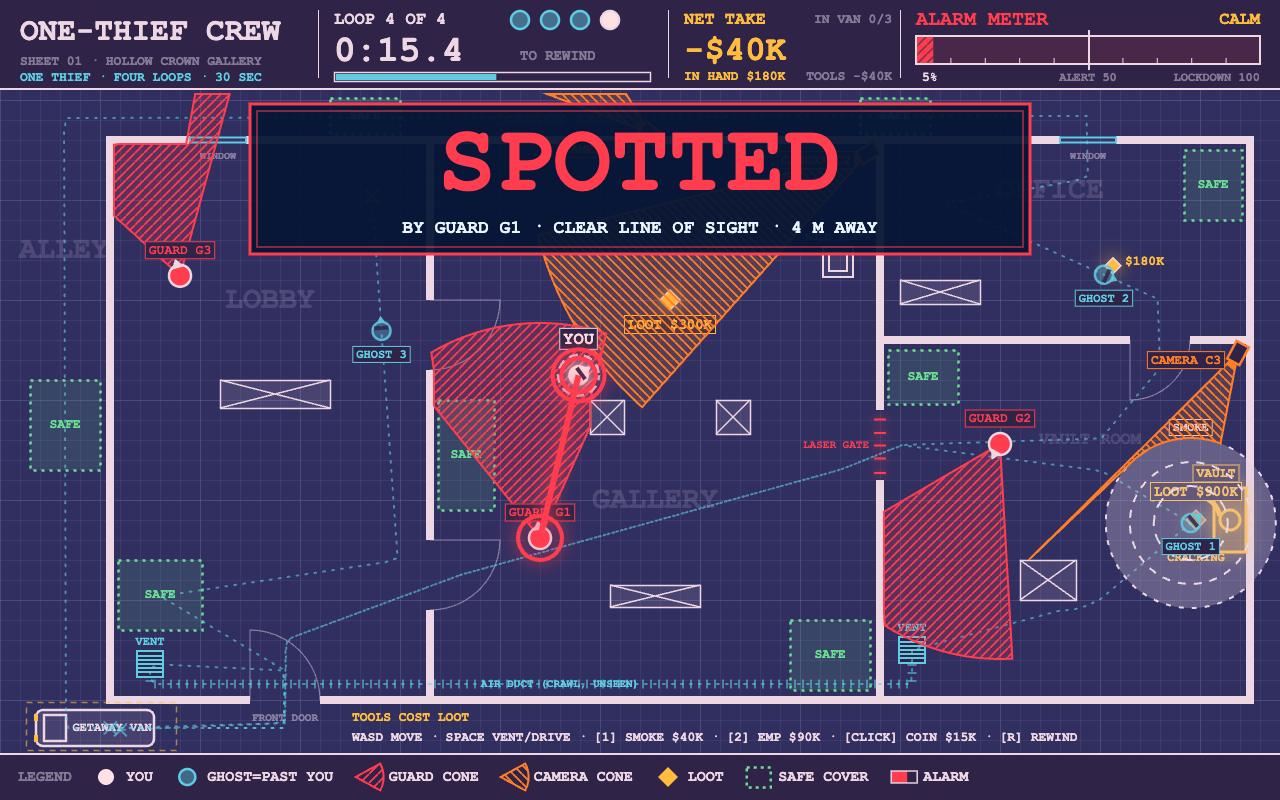
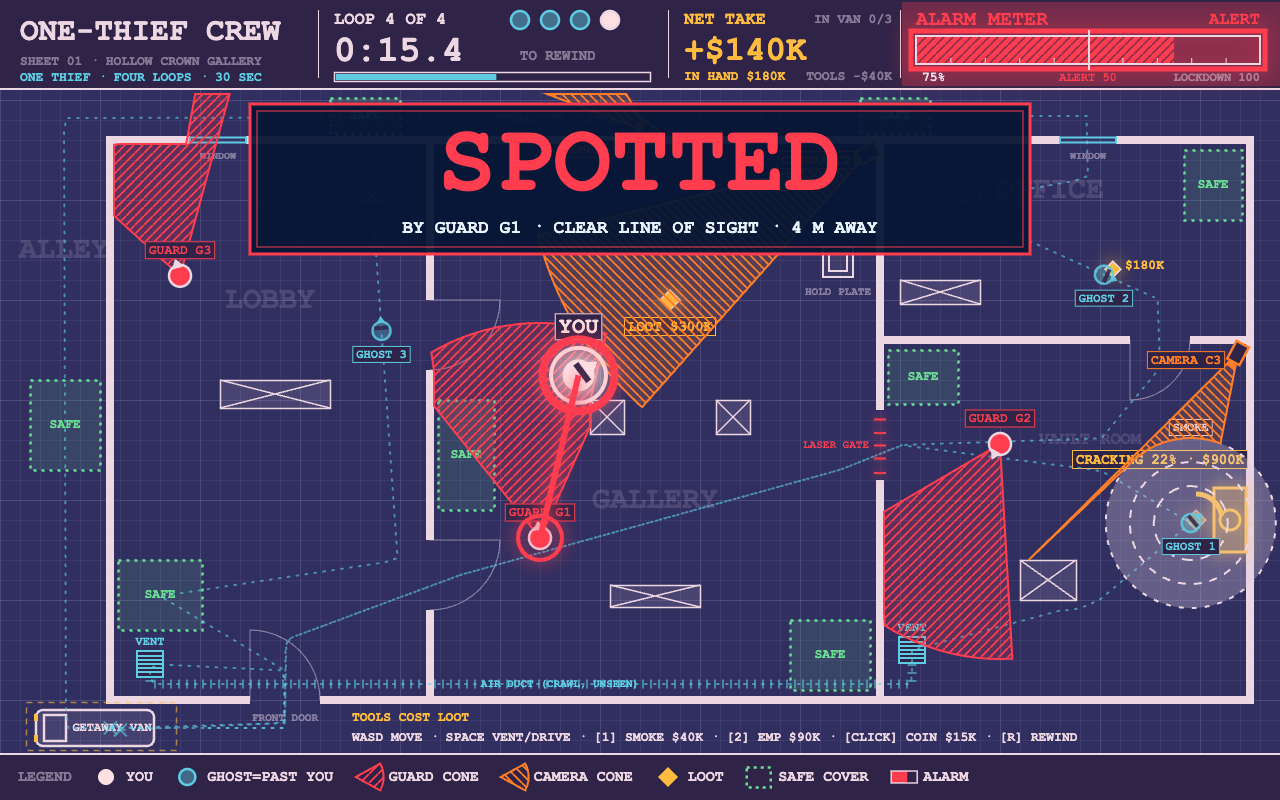
Spotted makes the alarm leap; clearer cover
The alarm meter jumps 70% and flashes red when the live thief is
spotted. The take shown in the margin counts loot in hand, with its
sign. The live thief is drawn larger inside a glowing white ring, the
vault carries one tag instead of four, and the plate label sits below
the plate. All four screenshots retaken.

diff --git a/game/src/render/drawCrew.js b/game/src/render/drawCrew.js
@@ -34,10 +34,14 @@ export function drawGhostTrails(ctx, world, emphasis) {
   ctx.restore();
 }
 
-function drawThiefBody(ctx, thief, color, fill) {
+/** How much larger than a ghost the live thief is drawn: the hero must read at thumbnail size. */
+const LIVE_SCALE = 1.55;
+
+function drawThiefBody(ctx, thief, color, fill, scale = 1) {
   ctx.save();
   ctx.translate(thief.x, thief.y);
   ctx.rotate(thief.facing);
+  ctx.scale(scale, scale);
   ctx.fillStyle = fill;
   ctx.strokeStyle = color;
   ctx.lineWidth = 2.5;
@@ -63,7 +67,7 @@ function drawNoticeMark(ctx, thief) {
   ctx.strokeStyle = INK.danger;
   ctx.lineWidth = 4;
   ctx.beginPath();
-  ctx.arc(thief.x, thief.y, 17, -Math.PI / 2, -Math.PI / 2 + Math.PI * 2 * thief.noticed);
+  ctx.arc(thief.x, thief.y, thief.live ? 34 : 17, -Math.PI / 2, -Math.PI / 2 + Math.PI * 2 * thief.noticed);
   ctx.stroke();
 }
 
@@ -79,21 +83,24 @@ export function drawThieves(ctx, world, clock) {
     drawNoticeMark(ctx, thief);
   }
   const live = world.live;
+  // A soft white halo and a solid glowing ring: the one bright white thing on the sheet.
+  const ring = 27 + 2 * Math.sin(clock * 5);
   ctx.save();
-  ctx.strokeStyle = INK.you;
-  ctx.globalAlpha = 0.75 + 0.2 * Math.sin(clock * 5);
-  ctx.lineWidth = 2.5;
-  ctx.setLineDash([9, 6]);
-  ctx.lineDashOffset = -clock * 20;
+  ctx.globalAlpha = live.hidden ? 0.4 : 1;
+  ctx.fillStyle = 'rgba(255, 255, 255, 0.2)';
   ctx.beginPath();
-  ctx.arc(live.x, live.y, 20 + 2 * Math.sin(clock * 5), 0, Math.PI * 2);
-  ctx.stroke();
+  ctx.arc(live.x, live.y, ring, 0, Math.PI * 2);
+  ctx.fill();
+  withGlow(ctx, INK.you, 20, () => {
+    ctx.strokeStyle = INK.you;
+    ctx.lineWidth = 4;
+    ctx.beginPath();
+    ctx.arc(live.x, live.y, ring, 0, Math.PI * 2);
+    ctx.stroke();
+    drawThiefBody(ctx, live, INK.you, INK.you, LIVE_SCALE);
+  });
   ctx.restore();
-  ctx.save();
-  ctx.globalAlpha = live.hidden ? 0.45 : 1;
-  withGlow(ctx, INK.you, 12, () => drawThiefBody(ctx, live, INK.you, INK.you));
-  ctx.restore();
-  drawTag(ctx, live.hidden ? 'YOU (IN DUCT)' : 'YOU', live.x, live.y - 36, 17, INK.you);
+  drawTag(ctx, live.hidden ? 'YOU (IN DUCT)' : 'YOU', live.x, live.y - 48, 22, INK.you);
   drawNoticeMark(ctx, live);
 }
 
@@ -101,8 +108,10 @@ export function drawLoot(ctx, world, clock) {
   for (const item of world.loot) {
     if (item.banked) continue;
     const locked = item.inVault && !world.vault.open;
-    const x = item.carrier ? item.x + 9 : item.x;
-    const y = item.carrier ? item.y - 9 : item.y;
+    // Carried loot rides at the carrier's shoulder, outside the live thief's bright ring.
+    const shoulder = item.carrier ? (item.carrier.live ? 30 : 9) : 0;
+    const x = item.x + shoulder;
+    const y = item.y - shoulder * 0.6;
     const size = item.carrier ? 8 : 11 + Math.sin(clock * 4) * 1.2;
     ctx.save();
     ctx.globalAlpha = locked ? 0.55 : 1;
@@ -120,7 +129,9 @@ export function drawLoot(ctx, world, clock) {
     ctx.lineWidth = 1.5;
     ctx.stroke();
     ctx.restore();
-    if (!item.carrier) drawTag(ctx, `LOOT $${item.value / 1000}K`, item.x, item.y + (item.inVault ? -28 : 25), 14, INK.loot);
+    // A locked vault's own tag already names its loot.
+    if (locked) continue;
+    if (!item.carrier) drawTag(ctx, `LOOT $${item.value / 1000}K`, item.x - (item.inVault ? 40 : 0), item.y + 27, 14, INK.loot);
     else drawLabel(ctx, `$${item.value / 1000}K`, x + 12, y - 4, 13, INK.loot);
   }
 }

diff --git a/game/src/render/drawHud.js b/game/src/render/drawHud.js
@@ -3,7 +3,7 @@
 import { ALARM, LOOP_SECONDS, MAX_SELVES, TOOLS, VIEW } from '../config.js';
 import { currentLoopNumber, secondsLeftInLoop } from '../loop/timeLoop.js';
 import { alarmStage, ALERT, CALM } from '../systems/alarmMeter.js';
-import { formatMoney, netTake, valueInHand } from '../systems/lootLedger.js';
+import { formatMoney, formatSignedMoney, takeSoFar, valueInHand } from '../systems/lootLedger.js';
 import { drawLabel, hatchFill, INK, strokeDashedRect } from './blueprintStyle.js';
 
 const BAR = { x: 0, y: 0, w: VIEW.width, h: 88 };
@@ -46,17 +46,31 @@ function drawLoopClock(ctx, session) {
 function drawTake(ctx, world) {
   const ledger = world.ledger;
   drawLabel(ctx, 'NET TAKE', 684, 20, 17, INK.loot);
-  drawLabel(ctx, formatMoney(netTake(ledger)), 684, 51, 34, INK.loot);
+  // Loot in the van plus loot in hand, less the tool bill: what this plan is worth right now.
+  const take = takeSoFar(world);
+  drawLabel(ctx, formatSignedMoney(take), 684, 51, 34, take < 0 ? INK.danger : INK.loot);
   drawLabel(ctx, `IN HAND ${formatMoney(valueInHand(world.loot))}`, 684, 77, 13, INK.loot);
   drawLabel(ctx, `TOOLS ${formatMoney(-ledger.toolSpend)}`, 892, 77, 13, INK.faint, 'right');
   drawLabel(ctx, `IN VAN ${ledger.banked.length}/3`, 892, 20, 13, INK.faint, 'right');
 }
 
-function drawAlarmMeter(ctx, world) {
+function drawAlarmMeter(ctx, world, clock) {
   const stage = alarmStage(world.alarm);
   const color = stage === CALM ? INK.loot : INK.danger;
   const x = 916;
   const width = 344;
+  // Past ALERT the whole meter flashes red.
+  if (stage !== CALM && Math.sin(clock * 10) > -0.2) {
+    ctx.fillStyle = 'rgba(255, 61, 79, 0.3)';
+    ctx.fillRect(902, 2, VIEW.width - 902, 84);
+    ctx.save();
+    ctx.shadowColor = INK.danger;
+    ctx.shadowBlur = 24;
+    ctx.strokeStyle = INK.danger;
+    ctx.lineWidth = 5;
+    ctx.strokeRect(x - 5, 31, width + 10, 38);
+    ctx.restore();
+  }
   drawLabel(ctx, 'ALARM METER', x, 20, 20, INK.danger);
   drawLabel(ctx, stage, x + width, 20, 17, color, 'right');
   ctx.fillStyle = 'rgba(255, 61, 79, 0.12)';
@@ -147,11 +161,11 @@ function drawLegend(ctx) {
   });
 }
 
-export function drawHud(ctx, session) {
+export function drawHud(ctx, session, clock) {
   drawTitleBlock(ctx);
   drawLoopClock(ctx, session);
   drawTake(ctx, session.world);
-  drawAlarmMeter(ctx, session.world);
+  drawAlarmMeter(ctx, session.world, clock);
   drawToolPrices(ctx);
   drawLegend(ctx);
 }

diff --git a/game/src/render/drawFloorPlan.js b/game/src/render/drawFloorPlan.js
@@ -123,7 +123,8 @@ function drawLaserGateAndPlate(ctx, world, clock) {
   ctx.fillRect(HOLD_PLATE.x - 15, HOLD_PLATE.y - 15, 30, 30);
   ctx.strokeRect(HOLD_PLATE.x - 15, HOLD_PLATE.y - 15, 30, 30);
   ctx.strokeRect(HOLD_PLATE.x - 9, HOLD_PLATE.y - 9, 18, 18);
-  drawLabel(ctx, 'HOLD PLATE', HOLD_PLATE.x, HOLD_PLATE.y - 25, 11, held ? INK.safe : INK.faint, 'center');
+  // Below the plate, so it never sits under the tag of whoever stands on it.
+  drawLabel(ctx, held ? 'PLATE HELD' : 'HOLD PLATE', HOLD_PLATE.x, HOLD_PLATE.y + 30, 11, held ? INK.safe : INK.faint, 'center');
 }
 
 function drawVault(ctx, world) {
@@ -139,14 +140,18 @@ function drawVault(ctx, world) {
     ctx.arc(box.x + box.w / 2, box.y + box.h / 2, 10, 0, Math.PI * 2);
     ctx.stroke();
   });
-  drawTag(ctx, vault.open ? 'VAULT OPEN' : 'VAULT', box.x + 2, box.y - 14, 13, INK.loot);
-  if (!vault.open && vault.progress > 0) {
+  // One tag says everything about the vault, so nothing piles up around its door.
+  const cracking = !vault.open && vault.progress > 0;
+  let tag = 'VAULT · LOOT $900K';
+  if (vault.open) tag = 'VAULT OPEN';
+  else if (cracking) tag = `CRACKING ${Math.round((100 * vault.progress) / VAULT.crackSeconds)}% · $900K`;
+  drawTag(ctx, tag, 1160, box.y - 28, 14, INK.loot);
+  if (cracking) {
     ctx.strokeStyle = INK.loot;
     ctx.lineWidth = 5;
     ctx.beginPath();
-    ctx.arc(VAULT_DOOR.x, VAULT_DOOR.y, 24, -Math.PI / 2, -Math.PI / 2 + (Math.PI * 2 * vault.progress) / VAULT.crackSeconds);
+    ctx.arc(VAULT_DOOR.x, VAULT_DOOR.y, 26, -Math.PI / 2, -Math.PI / 2 + (Math.PI * 2 * vault.progress) / VAULT.crackSeconds);
     ctx.stroke();
-    drawLabel(ctx, 'CRACKING', VAULT_DOOR.x, VAULT_DOOR.y + 38, 12, INK.loot, 'center');
   }
 }
 

diff --git a/game/src/config.js b/game/src/config.js
@@ -29,7 +29,8 @@ export const GUARD = {
 /** Seconds a watcher needs to be sure of what it sees, up close and at the edge of its cone. */
 export const SIGHT = { nearSeconds: 0.3, farSeconds: 0.85, forgetPerSecond: 1.6, coverRevealDistance: 64 };
 
-export const ALARM = { max: 100, perGhostCaught: 35, perSecondNoticed: 7, alertAt: 50 };
+/** Being fully spotted yourself is the loudest thing that can happen: the meter leaps. */
+export const ALARM = { max: 100, perGhostCaught: 35, perLiveSpotted: 70, perSecondNoticed: 7, alertAt: 50 };
 
 export const VAULT = { crackSeconds: 3.5, radius: 42 };
 

diff --git a/game/src/systems/lootLedger.js b/game/src/systems/lootLedger.js
@@ -29,6 +29,16 @@ export function valueInHand(loot) {
   return total;
 }
 
+/** What the crew walks away with if everything in hand reaches the van: van + hands - tools. */
+export function takeSoFar(world) {
+  return stolenTotal(world.ledger) + valueInHand(world.loot) - world.ledger.toolSpend;
+}
+
+/** +$440K / -$40K: a take shown with its sign, so profit and loss read at a glance. */
+export function formatSignedMoney(amount) {
+  return amount > 0 ? `+${formatMoney(amount)}` : formatMoney(amount);
+}
+
 export function netTake(ledger) {
   return stolenTotal(ledger) - ledger.toolSpend;
 }

diff --git a/game/src/ai/spotThieves.js b/game/src/ai/spotThieves.js
@@ -59,8 +59,12 @@ export function watchForThieves(world) {
       watcher.suspicion[thief.id] = level;
       if (level > thief.noticed) thief.noticed = level;
       if (level < 1) continue;
-      if (thief.live) spottedBy = spottedBy ?? watcher;
-      else catchGhost(thief, watcher, world);
+      if (!thief.live) catchGhost(thief, watcher, world);
+      else if (!spottedBy) {
+        // The watcher is sure: the alarm jumps the moment the live thief is spotted.
+        spottedBy = watcher;
+        raiseAlarm(world.alarm, ALARM.perLiveSpotted);
+      }
     }
   }
   return spottedBy;

diff --git a/game/src/render/renderFrame.js b/game/src/render/renderFrame.js
@@ -62,7 +62,7 @@ export function renderFrame(ctx, session, clock, aim) {
   drawCameras(ctx, world);
   if (!leaving) drawThieves(ctx, world, clock);
   if (screen === SCREEN_PLAY && aim) drawCoinAim(ctx, world, aim);
-  drawHud(ctx, session);
+  drawHud(ctx, session, clock);
   if (screen === SCREEN_TITLE) drawTitleScreen(ctx, clock);
   else if (screen === SCREEN_CAUGHT) drawCaughtFreeze(ctx, session);
   else if (screen === SCREEN_REWIND) drawRewindSweep(ctx, session, clock);

diff --git a/game/src/render/drawScreens.js b/game/src/render/drawScreens.js
@@ -67,8 +67,8 @@ export function drawCaughtFreeze(ctx, session) {
     ctx.lineWidth = 4;
     ctx.beginPath();
     ctx.arc(watcher.x, watcher.y, 22, 0, Math.PI * 2);
-    ctx.moveTo(live.x + 26, live.y);
-    ctx.arc(live.x, live.y, 26, 0, Math.PI * 2);
+    ctx.moveTo(live.x + 38, live.y);
+    ctx.arc(live.x, live.y, 38, 0, Math.PI * 2);
     ctx.stroke();
     ctx.restore();
     const who = watcher.kind === 'guard' ? `GUARD ${watcher.name}` : `CAMERA ${watcher.name}`;

diff --git a/README.md b/README.md
@@ -14,7 +14,7 @@ You rob the Hollow Crown Gallery in 30 second loops. When the clock runs out, or
 - **Three routes.** The front hall through the laser gate (someone has to stand on the hold plate), the cornice ledge outside the north windows (under camera C1), and the air duct (slow, but nobody can see you in it).
 - **Tools cost loot.** Smoke bomb $40K, EMP $90K, coin toss $15K, all paid out of the take, and a ghost's tools are billed again every loop it replays.
 - **Read before you move.** Guards walk fixed patrols with heads that sway; cameras sweep on fixed periods; cones are cut by walls and furniture, and what is drawn is exactly what is tested. Green dotted boxes are safe cover.
-- **A fair catch.** The frame freezes and a red line runs from the eye that saw you to where you stood: `SPOTTED BY GUARD G1 · CLEAR LINE OF SIGHT · 4 M AWAY`.
+- **A fair catch.** The alarm meter leaps 70% and flashes red, the frame freezes and a red line runs from the eye that saw you to where you stood: `SPOTTED BY GUARD G1 · CLEAR LINE OF SIGHT · 4 M AWAY`.
 - **The getaway.** Carry loot to the van, press Space inside it, and read the itemised receipt: what was stolen, what the tools cost, how many loops it took.
 
 Everything is original: the idea, the room, the names, the blueprint art (all drawn with Canvas 2D) and the sounds (all synthesised with WebAudio). No library, no build step, no network request.
